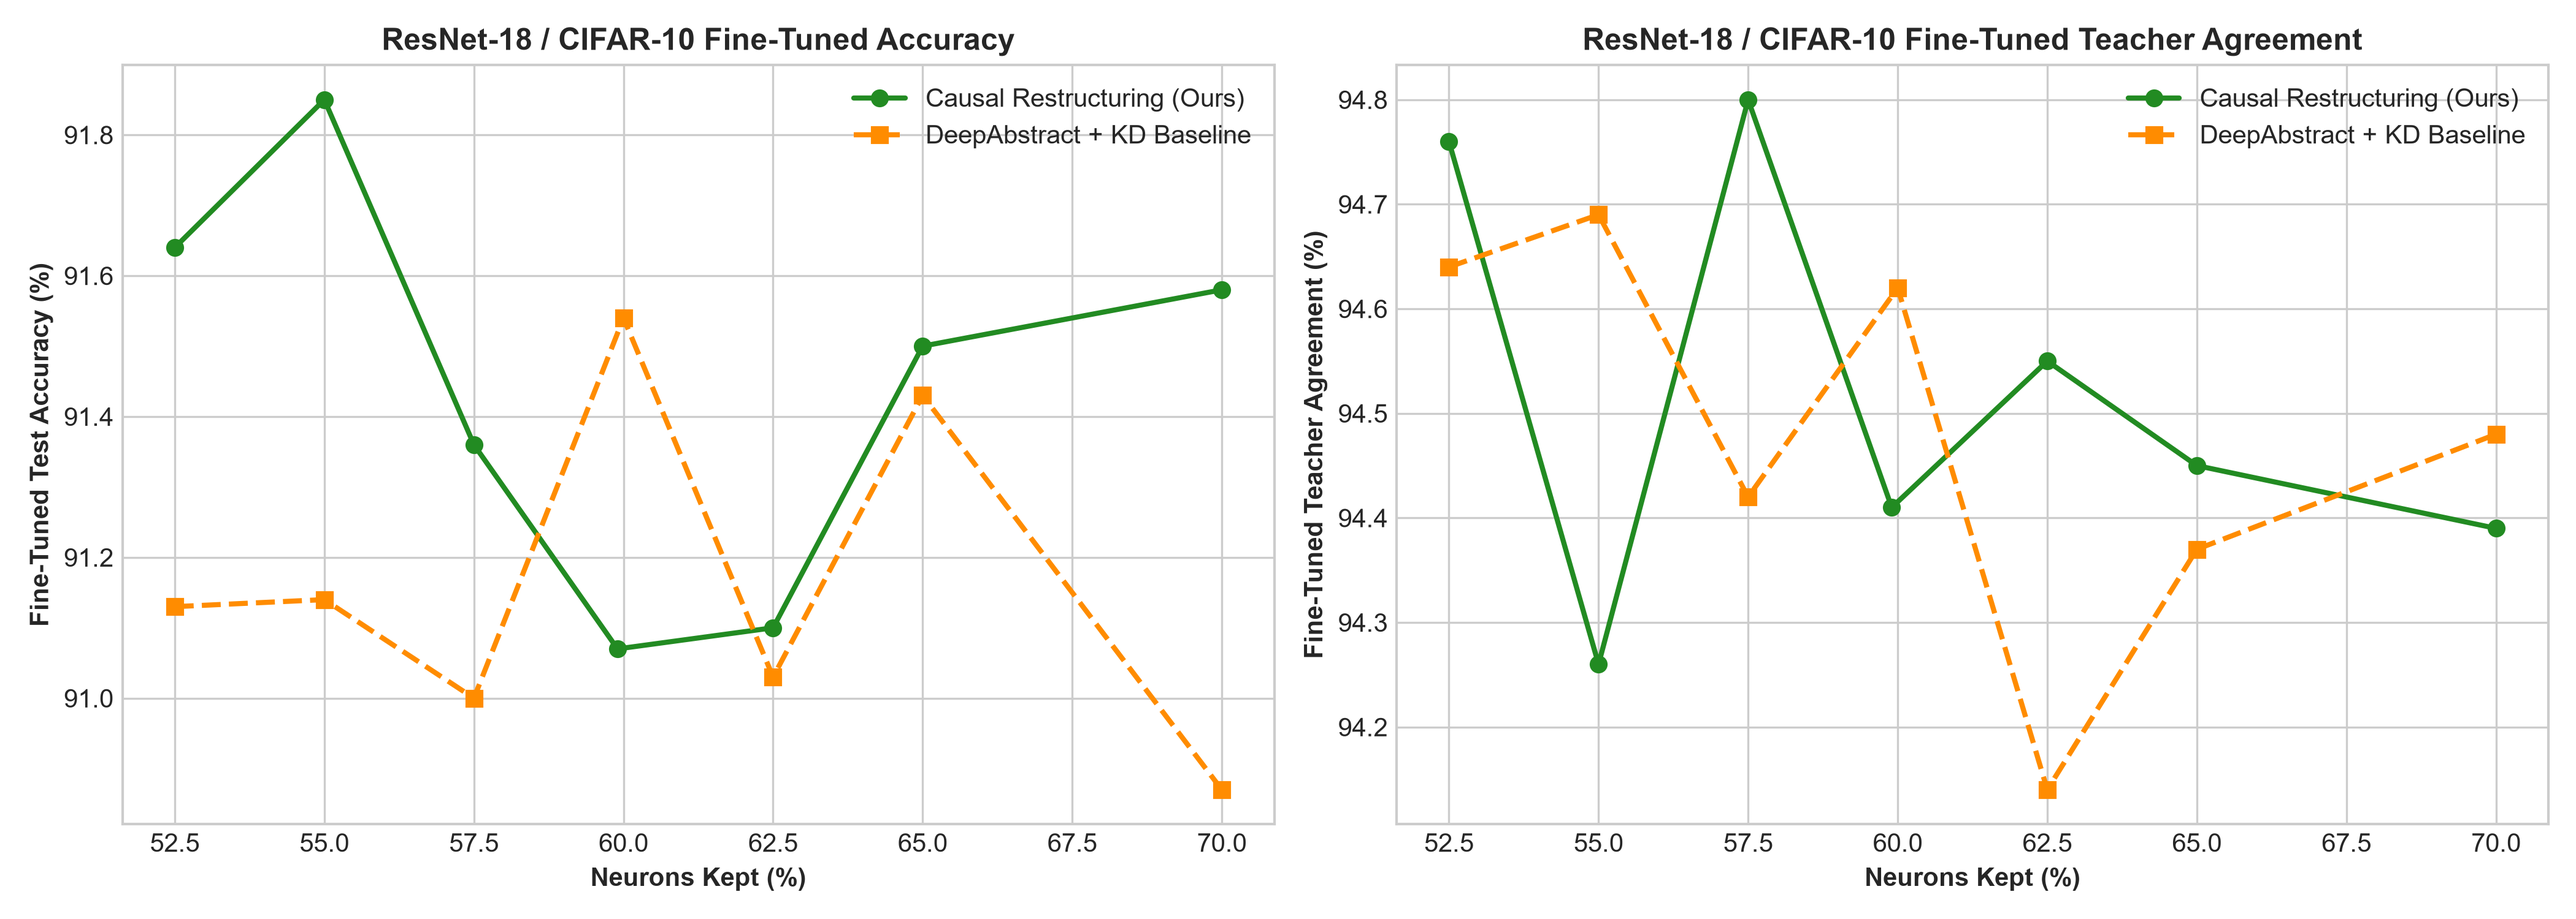
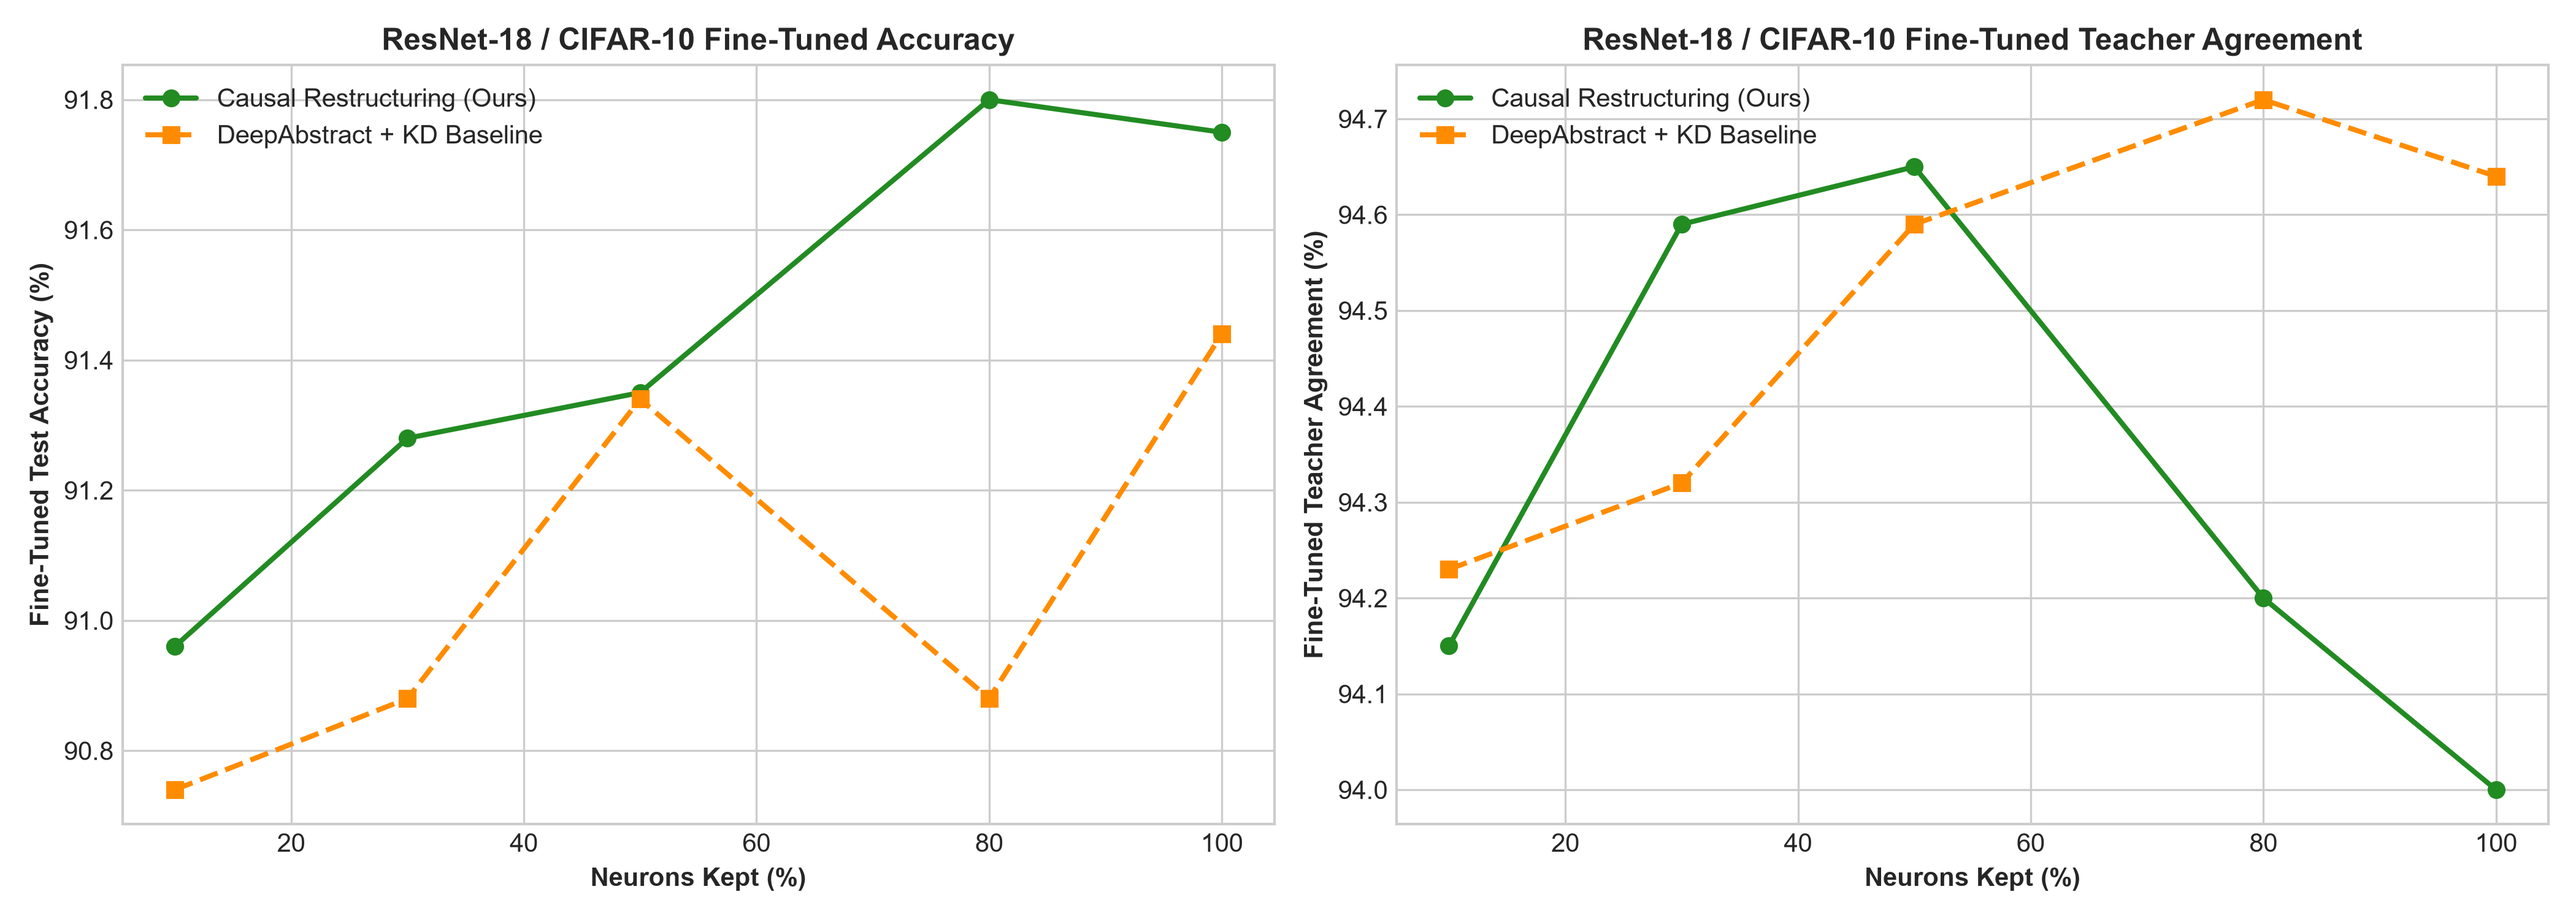
Resnet18 CIFAR Results

diff --git a/experiments/experiment_resnet_sweep.py b/experiments/experiment_resnet_sweep.py
@@ -35,32 +35,25 @@ def run_experiment_command(cmd_args):
 
 
 def parse_metrics(output_str):
-    """
-    Extracts Zero-Shot & Fine-Tuned metrics as well as actual % Neurons Kept.
-    """
+    """Extracts Zero-Shot & Fine-Tuned metrics as well as actual % Neurons Kept."""
     metrics = {}
     
-    # Parse % Neurons Kept: e.g. "Units Retained: 2050 / 3904 (52.5%)"
     retained_match = re.search(r"Units Retained:\s*\d+\s*/\s*\d+\s*\(([\d\.]+)%\)", output_str)
     if retained_match:
         metrics["pct_kept"] = float(retained_match.group(1))
 
-    # Parse Zero-Shot Accuracy
     zs_acc_match = re.search(r"Zero-Shot Accuracy:\s*([\d\.]+)%", output_str)
     if zs_acc_match:
         metrics["zs_acc"] = float(zs_acc_match.group(1))
 
-    # Parse Zero-Shot Teacher Agreement
     zs_agr_match = re.search(r"Zero-Shot Teacher Agreement:\s*([\d\.]+)%", output_str)
     if zs_agr_match:
         metrics["zs_agr"] = float(zs_agr_match.group(1))
 
-    # Parse Fine-Tuned Accuracy
     ft_acc_match = re.search(r"Fine-Tuned Accuracy:\s*([\d\.]+)%", output_str)
     if ft_acc_match:
         metrics["ft_acc"] = float(ft_acc_match.group(1))
 
-    # Parse Fine-Tuned Teacher Agreement
     ft_agr_match = re.search(r"Fine-Tuned Teacher Agreement:\s*([\d\.]+)%", output_str)
     if ft_agr_match:
         metrics["ft_agr"] = float(ft_agr_match.group(1))
@@ -69,48 +62,59 @@ def parse_metrics(output_str):
 
 
 def main():
-    sweep_budgets = [5.0, 10.0, 15.0, 20.0, 25.0, 30.0, 40.0]
+    target_kept_pcts = [10.0, 30.0, 50.0, 80.0, 100.0]
     
     causal_pct_kept, causal_zs_acc, causal_zs_agr, causal_ft_acc, causal_ft_agr = [], [], [], [], []
     deepabs_pct_kept, deepabs_zs_acc, deepabs_zs_agr, deepabs_ft_acc, deepabs_ft_agr = [], [], [], [], []
 
-    for budget in sweep_budgets:
-        print(f"\n--- Testing Sweep Budget = {budget}% ---")
+    for target_pct in target_kept_pcts:
+        print(f"\n===========================================================")
+        print(f" Testing Target Neurons Kept = {target_pct}%")
+        print(f"===========================================================")
         
+        # Calculate parameters for Causal Restructuring
+        if target_pct >= 100.0:
+            causal_reserve = 100.0
+            causal_bg_rr = 0.0
+        else:
+            causal_reserve = 0.3 * target_pct
+            bg_total_pct = 100.0 - causal_reserve
+            bg_kept_pct = target_pct - causal_reserve
+            causal_bg_rr = 1.0 - (bg_kept_pct / bg_total_pct)
+
         # 1. Run Causal Restructuring (Ours)
         causal_args = [
             "--method", "causal",
             "--model", "resnet18",
             "--dataset", "cifar10",
             "--batch_size", "32",
-            "--top_n_pct", str(budget),
+            "--top_n_pct", f"{causal_reserve:.4f}",
+            "--reduction_rate", f"{causal_bg_rr:.4f}",
             "--ft_epochs", "5"
         ]
         causal_out = run_experiment_command(causal_args)
         if causal_out:
             m = parse_metrics(causal_out)
-            # Default fallback if parsing fails: 50 + 0.5 * budget
-            causal_pct_kept.append(m.get("pct_kept", 50.0 + 0.5 * budget))
+            causal_pct_kept.append(m.get("pct_kept", target_pct))
             causal_zs_acc.append(m.get("zs_acc", 0.0))
             causal_zs_agr.append(m.get("zs_agr", 0.0))
             causal_ft_acc.append(m.get("ft_acc", 0.0))
             causal_ft_agr.append(m.get("ft_agr", 0.0))
 
         # 2. Run DeepAbstract Baseline
-        # DeepAbstract maps reduction_rate from reserve budget: (100 - budget) / 100 * 0.5
-        deepabs_reduction = (100.0 - budget) / 100.0 * 0.5
+        deepabs_rr = 1.0 - (target_pct / 100.0)
         deepabs_args = [
             "--method", "deepabstract",
             "--model", "resnet18",
             "--dataset", "cifar10",
             "--batch_size", "32",
-            "--reduction_rate", f"{deepabs_reduction:.4f}",
+            "--reduction_rate", f"{deepabs_rr:.4f}",
             "--ft_epochs", "5"
         ]
         deepabs_out = run_experiment_command(deepabs_args)
         if deepabs_out:
             m = parse_metrics(deepabs_out)
-            deepabs_pct_kept.append(m.get("pct_kept", 50.0 + 0.5 * budget))
+            deepabs_pct_kept.append(m.get("pct_kept", target_pct))
             deepabs_zs_acc.append(m.get("zs_acc", 0.0))
             deepabs_zs_agr.append(m.get("zs_agr", 0.0))
             deepabs_ft_acc.append(m.get("ft_acc", 0.0))

diff --git a/src/utils/CausalRestructuringMethod.py b/src/utils/CausalRestructuringMethod.py
@@ -139,6 +139,7 @@ def perform_causal_restructuring(
     val_loader=None,
     test_loader=None,
     top_n_pct=15.0,
+    reduction_rate=0.5,
     device=torch.device("cpu"),
     cache_dir="cache",
     model_id="mlp3_uci_digits",
@@ -194,7 +195,7 @@ def perform_causal_restructuring(
         ablation_scores=ablation_scores,
         unit_map=unit_map,
         reserved_units=reserved_units,
-        reduction_rate=0.5
+        reduction_rate=reduction_rate
     )
 
     sub_model = copy.deepcopy(teacher_model).to(device)

diff --git a/main.py b/main.py
@@ -102,6 +102,7 @@ def main():
             val_loader=val_loader,
             test_loader=test_loader,
             top_n_pct=args.top_n_pct,
+            reduction_rate=args.reduction_rate,
             all_fps=all_fps,
             ablation_scores=scores,
             unit_map=unit_map,
